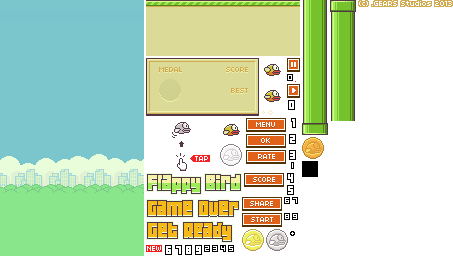
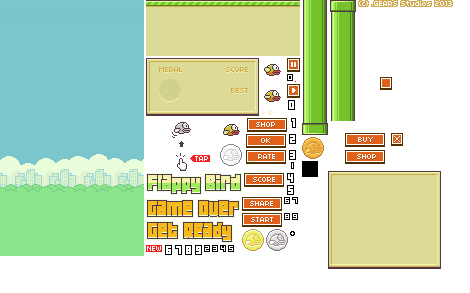
shop code implemented

diff --git a/src/main.js b/src/main.js
@@ -1,29 +1,30 @@
-import { gameLoop , player , scale , width , resetPlayer , stopGameAnimation} from "./character.js";
-import { isClickOnPauseButton } from "./pause.js";
+import { gameLoop , player , scale , width , resetPlayer , stopGameAnimation} from "./character.js" ;
+import { isClickOnPauseButton } from "./pause.js" ;
 import { drawRetryPage , isClickedOnOkButton } from "./retryPage.js" ;
-import { drawBg , drawGround , updateGround , resetPipes} from "./sceneCreation.js";
-import { getScore , resetScore } from "./score.js";
+import { drawBg , drawGround , updateGround , resetPipes} from "./sceneCreation.js" ;
+import { getScore , resetScore } from "./score.js" ;
+import { drawShowButton , isClickOnShopButton } from "./shop.js" ;
 
-export const flappyBirdSpriteSheet = new Image();
-flappyBirdSpriteSheet.src = 'assets/flappybirdassets.png';
+export const flappyBirdSpriteSheet = new Image() ;
+flappyBirdSpriteSheet.src = 'assets/flappybirdassets.png' ;
 
-export let firstTapped = false;
+export let firstTapped = false ;
 export let isBest = false ;
-let isGameOverProcessed = false
+let isGameOverProcessed = false ;
 
 
-export let gameRunning = false;
+export let gameRunning = false ;
 export let gameover = false  ;
-let startScreenAnimationId = null;
+let startScreenAnimationId = null ;
 let firstTapAnimationId = null ;
 
-const canvas = document.getElementById('main_canvas');
-const ctx = canvas.getContext('2d');
+const canvas = document.getElementById('main_canvas') ;
+const ctx = canvas.getContext('2d') ;
 
-let lastTime = 0;
+let lastTime = 0 ;
 
-let frameIndex = 0;
-const totalFrames = 3;
+let frameIndex = 0 ;
+const totalFrames = 3 ;
 let frameTimer = 0 ;
 const frameDelay = 0.1 ;
 
@@ -137,9 +138,10 @@ export function startGameLoop(currentTime){
 
     drawBg();
     drawGround();
-
     drawTitle();
+
     drawStartButton();
+    drawShowButton();
 
     animateFlappyOnStartPage(delta);
 
@@ -223,6 +225,9 @@ canvas.addEventListener('click', (e)=>{
         gameRunning = true;
         toggleScene(gameRunning);
         return;
+    }
+    if(isClickOnShopButton(mousePos.x , mousePos.y) && !gameRunning){
+        console.log("shop button");
     }
     if(isClickedOnOkButton(mousePos.x , mousePos.y) && !gameRunning){
         gameover = false ;

diff --git a/src/shop.js b/src/shop.js
@@ -1,0 +1,38 @@
+import { scale , width } from "./character.js" ;
+import { flappyBirdSpriteSheet } from "./main.js";
+
+const canvas = document.getElementById("main_canvas");
+const ctx = canvas.getContext('2d');
+
+const boughtItems = {};
+
+const items = {
+    gravity : {
+        sprite : { x: 0, y: 0, w: 0, h: 0},
+        title : "Low Gravity" ,
+        price : 10 ,
+    },
+}
+
+export function drawShowButton(){
+    ctx.drwImage(
+        flappyBirdSpriteSheet ,
+        247, 118, 40, 14,
+        (width / scale / 2) - 19 , 170 , 40 , 14
+    )
+}
+
+export function isClickOnShopButton(mouseX , mouseY){
+    return(
+    mouseX >= (width / scale / 2) - 19 &&
+    mouseX <= (width / scale/ 2 ) - 19 + 40 &&
+    mouseY >= 170 &&
+    mouseY <= 170+40
+    )
+}
+
+export function drawShopPage(){
+    ctx.drawImage(
+        flappyBirdSpriteSheet ,
+    )
+}
